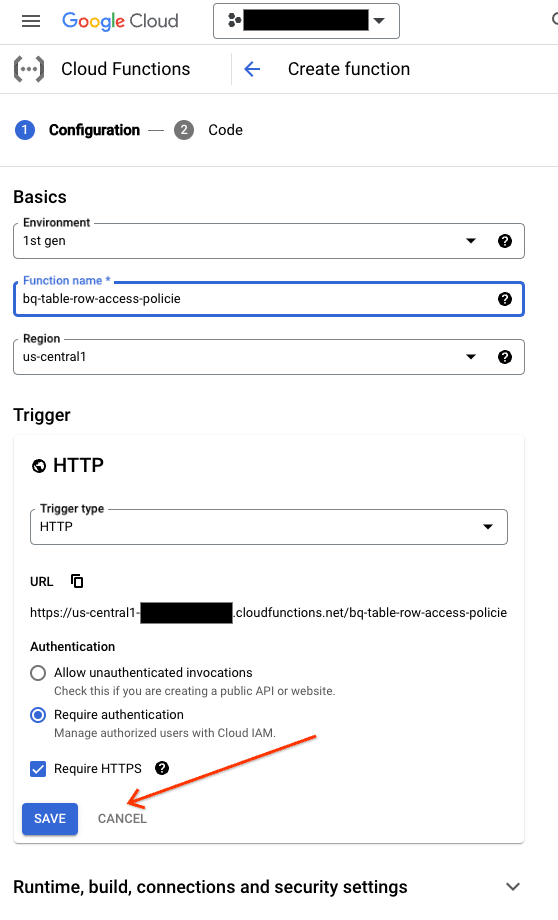
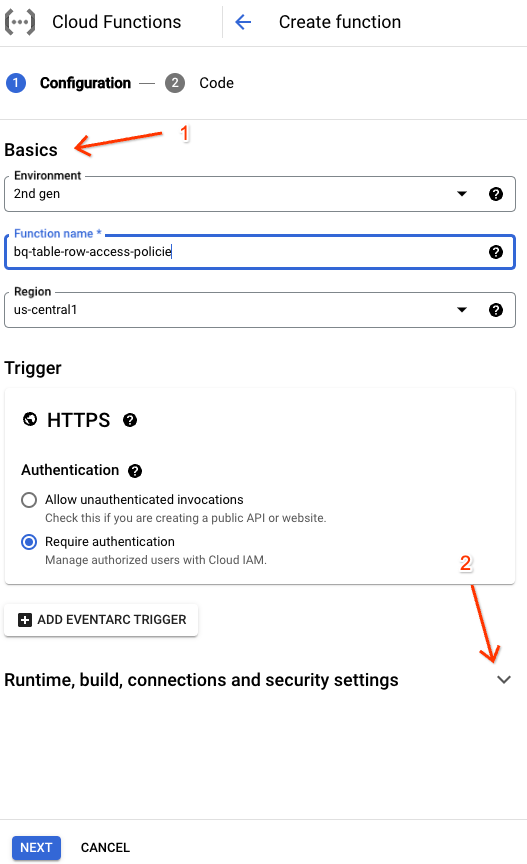
images to gen 2 CF

diff --git a/README.md b/README.md
@@ -262,14 +262,18 @@ On the configuration page, configure the following settings:
   * function name: `bq-table-row-access-policies`
   * region: `us-central1`
 * Trigger
-  * Trigger type: `HTTP`
-  * leave the rest as defaults and click save 
+  * Trigger type: `HTTPS`
+  * Expand the section "Runtime, build, connections and security settings":
 
 ![](img/gcf-01.png)
 
-Then, scroll to the bottom and click "Next"
+#### 1.1 Runtime, build, connections and security settings
+
+Set the timeout to be `3600` or the maximum to ensure we don't have any timeout issues.
 
 ![](img/gcf-02.png)
+
+Then, scroll to the bottom and click "Next"
 
 ### 2. Code
 
@@ -279,9 +283,11 @@ On the Code page, configure the following settings:
 * Source code: Inline Editor 
 * Entry point: `run`
 
-Then, select the `main.py` file on the left-hand side and copy the code from the `main.py` file from this repository.
+Then, create 2 files: `main.py` and `requirements.txt` (found in the [functions](/functions/) directory). 
 
-Repeat for  `requirements.txt` and then click "DEPLOY" 
+1. select the `main.py` file on the left-hand side and copy the code from the `main.py` file in this repository
+2. Repeat for  `requirements.txt` 
+3. and then click "DEPLOY" at the bottom 
 
 ![](img/gcf-03.png)
 
